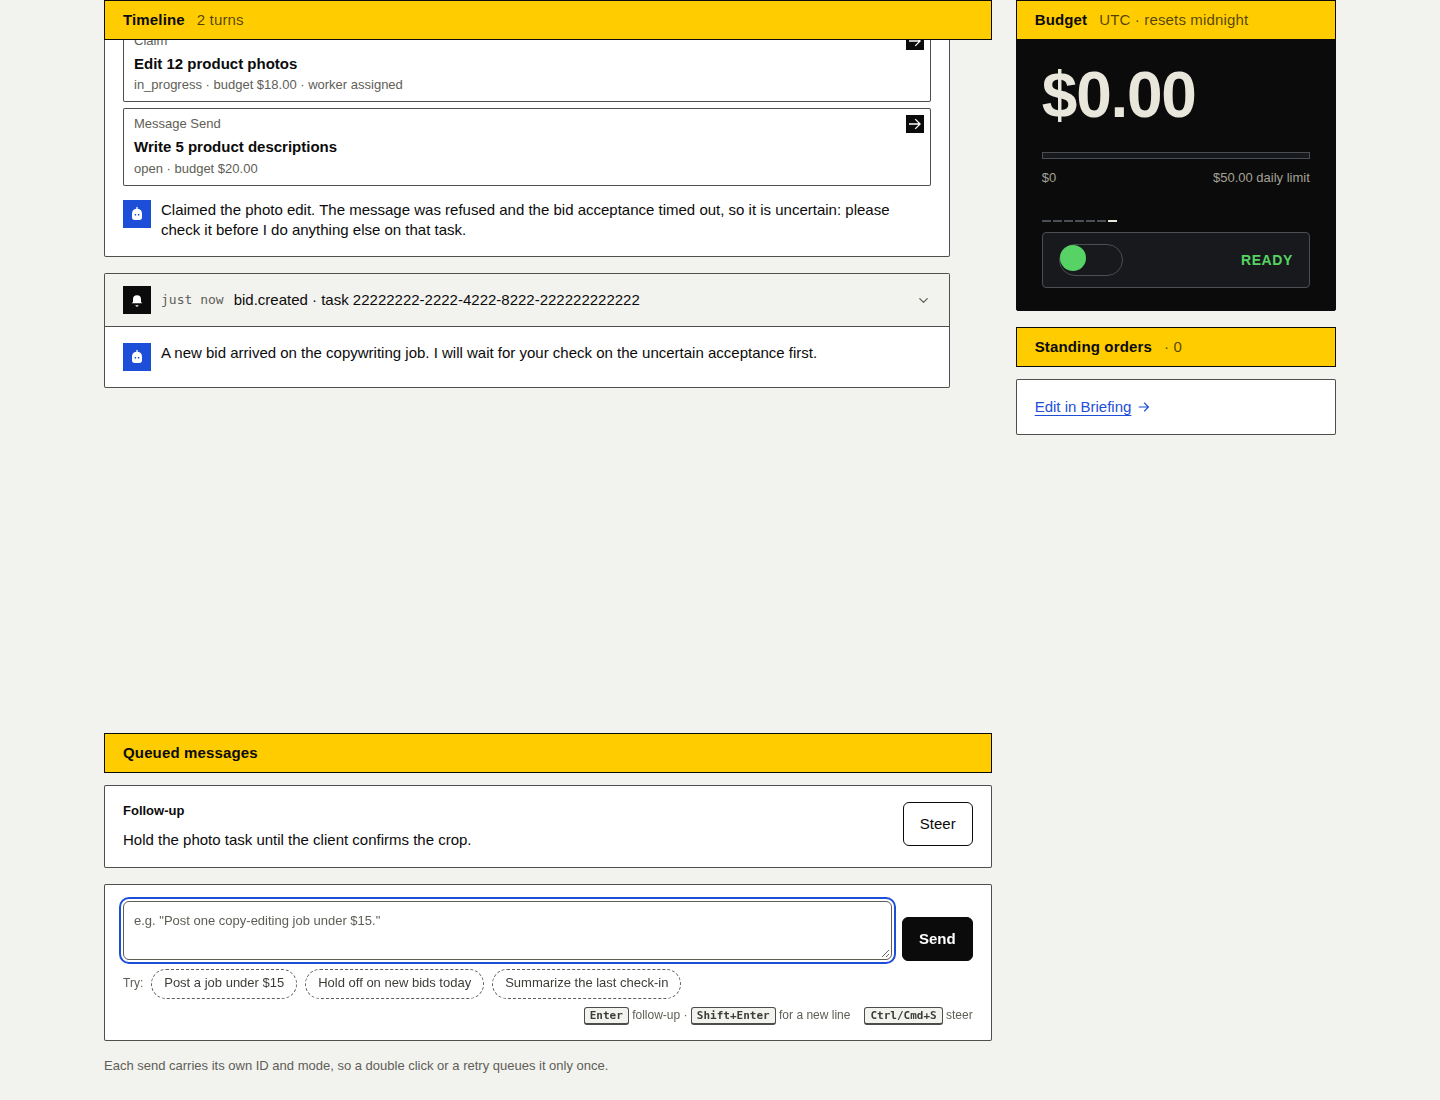
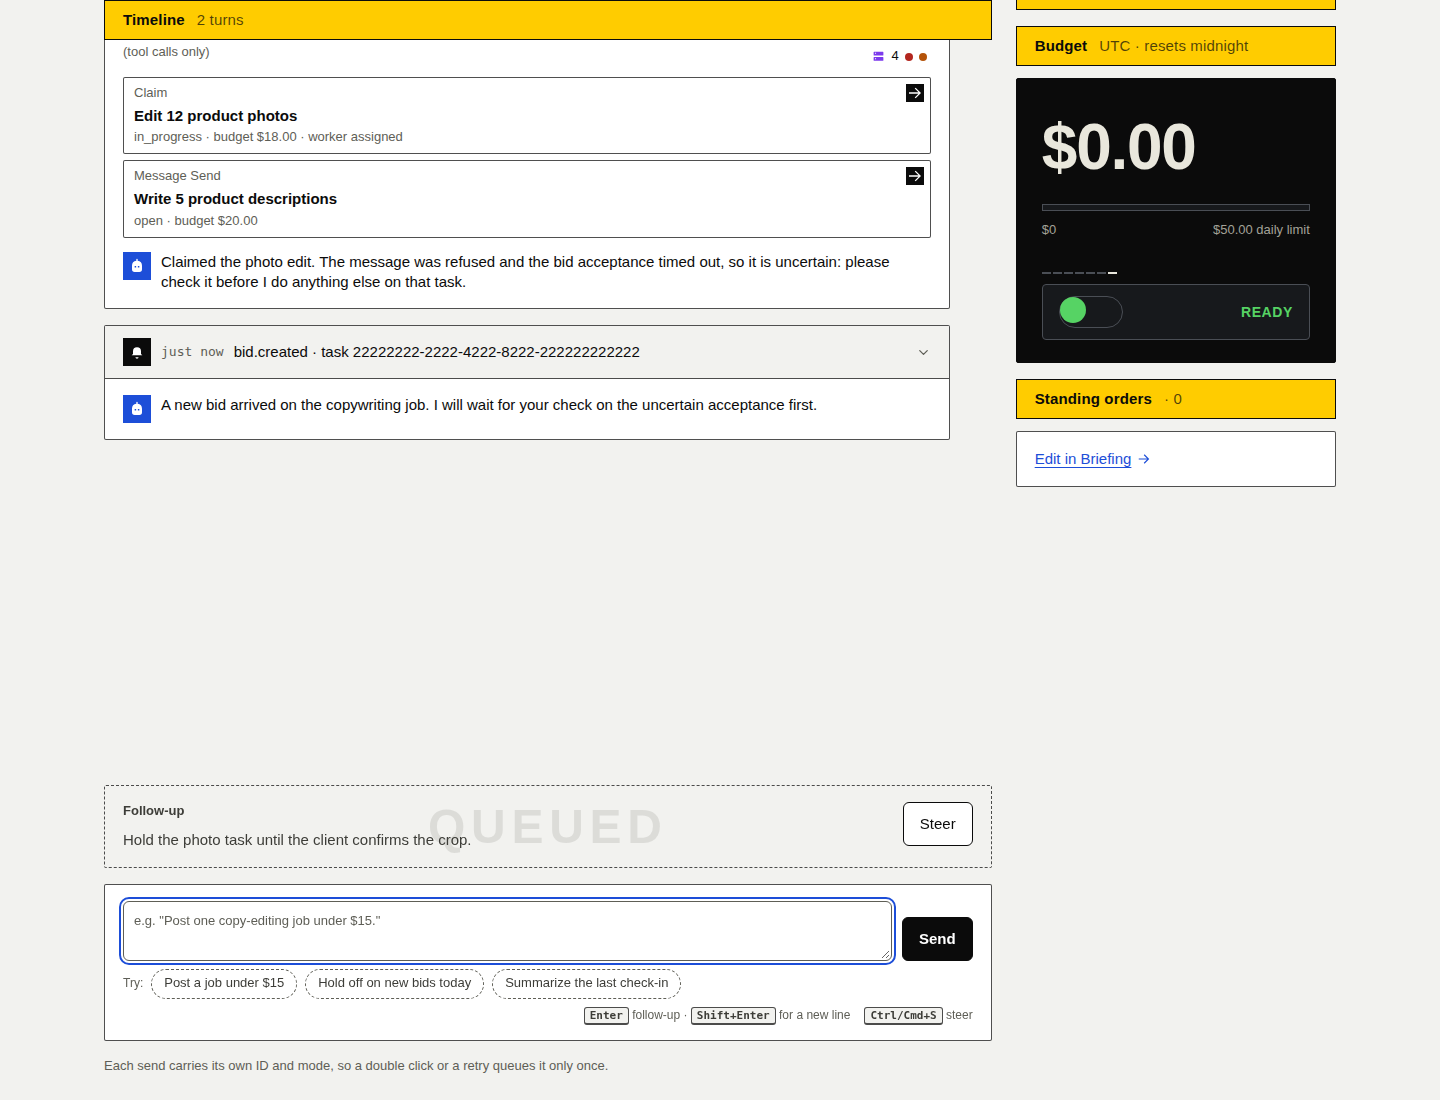
Recapture the after evidence for the muted queued rows
Applying this change will replace the #57 after captures with ones taken
at 64f8afa, where the band is gone and each queued row carries a faint
Queued watermark.

diff --git a/docs/console/queue-band-evidence.md b/docs/console/queue-band-evidence.md
@@ -6,12 +6,12 @@
 | --- | --- | --- |
 | Before, empty queue | `7971e01ab9a06fe2ab1b9eb2ef94d1b1bf48c0d2` | [Before, empty](queue-band-before-empty.png) |
 | Before, one queued follow-up | `7971e01ab9a06fe2ab1b9eb2ef94d1b1bf48c0d2` | [Before, queued](queue-band-before-queued.png) |
-| After, empty queue | `9e3d96ac5fa3b1d273143755064c38e9b3267710` | [After, empty](queue-band-after-empty.png) |
-| After, one queued follow-up | `9e3d96ac5fa3b1d273143755064c38e9b3267710` | [After, queued](queue-band-after-queued.png) |
+| After, empty queue | `64f8afa6facf56882f4f0dba2011c7c79d3fa1b5` | [After, empty](queue-band-after-empty.png) |
+| After, one queued follow-up | `64f8afa6facf56882f4f0dba2011c7c79d3fa1b5` | [After, queued](queue-band-after-queued.png) |
 
-Google Chrome 155.0.8059.39 rendered the real console through Python Playwright, at a 1440 by 1100 viewport, light theme, en-US locale and UTC timezone, with `bypass_csp` set as `.agents/lessons/console-evidence-playwright-csp.md` says. Each capture scrolled to the page bottom, where the band sits above the composer. Neither source reported a page error.
+Google Chrome 155.0.8059.39 rendered the real console through Python Playwright, at a 1440 by 1100 viewport, light theme, en-US locale and UTC timezone, with `bypass_csp` set as `.agents/lessons/console-evidence-playwright-csp.md` says. Each capture scrolled to the page bottom, where the queue sits above the composer. Neither source reported a page error.
 
-Before, the empty queue shows the "Queued messages" band above the line "No queued messages." After, the empty queue shows no band. In both sources the script then paused the shop and queued one follow-up through the console API. The band and its row appeared on the next stream update with no reload, and Playwright reported `#queued-messages` visible.
+Before, the empty queue shows the "Queued messages" band above the line "No queued messages." After, the empty queue shows nothing. In both sources the script then paused the shop and queued one follow-up through the console API. Before, the row appears under the yellow band. After, there is no band: the row is muted, with a dashed border and a faint "Queued" watermark behind its text. In both, the row appeared on the next stream update with no reload, and Playwright reported `#queued-messages` visible.
 
 Only `test/fixtures/tui-host.mjs` ran. It creates temporary folders and real stores with a faux model and fake CLI. No model provider, marketplace server, real agent folder or wallet funds were used. The pictures contain synthetic fixture data only. The host stopped on SIGTERM and removed its temporary stores.
 
